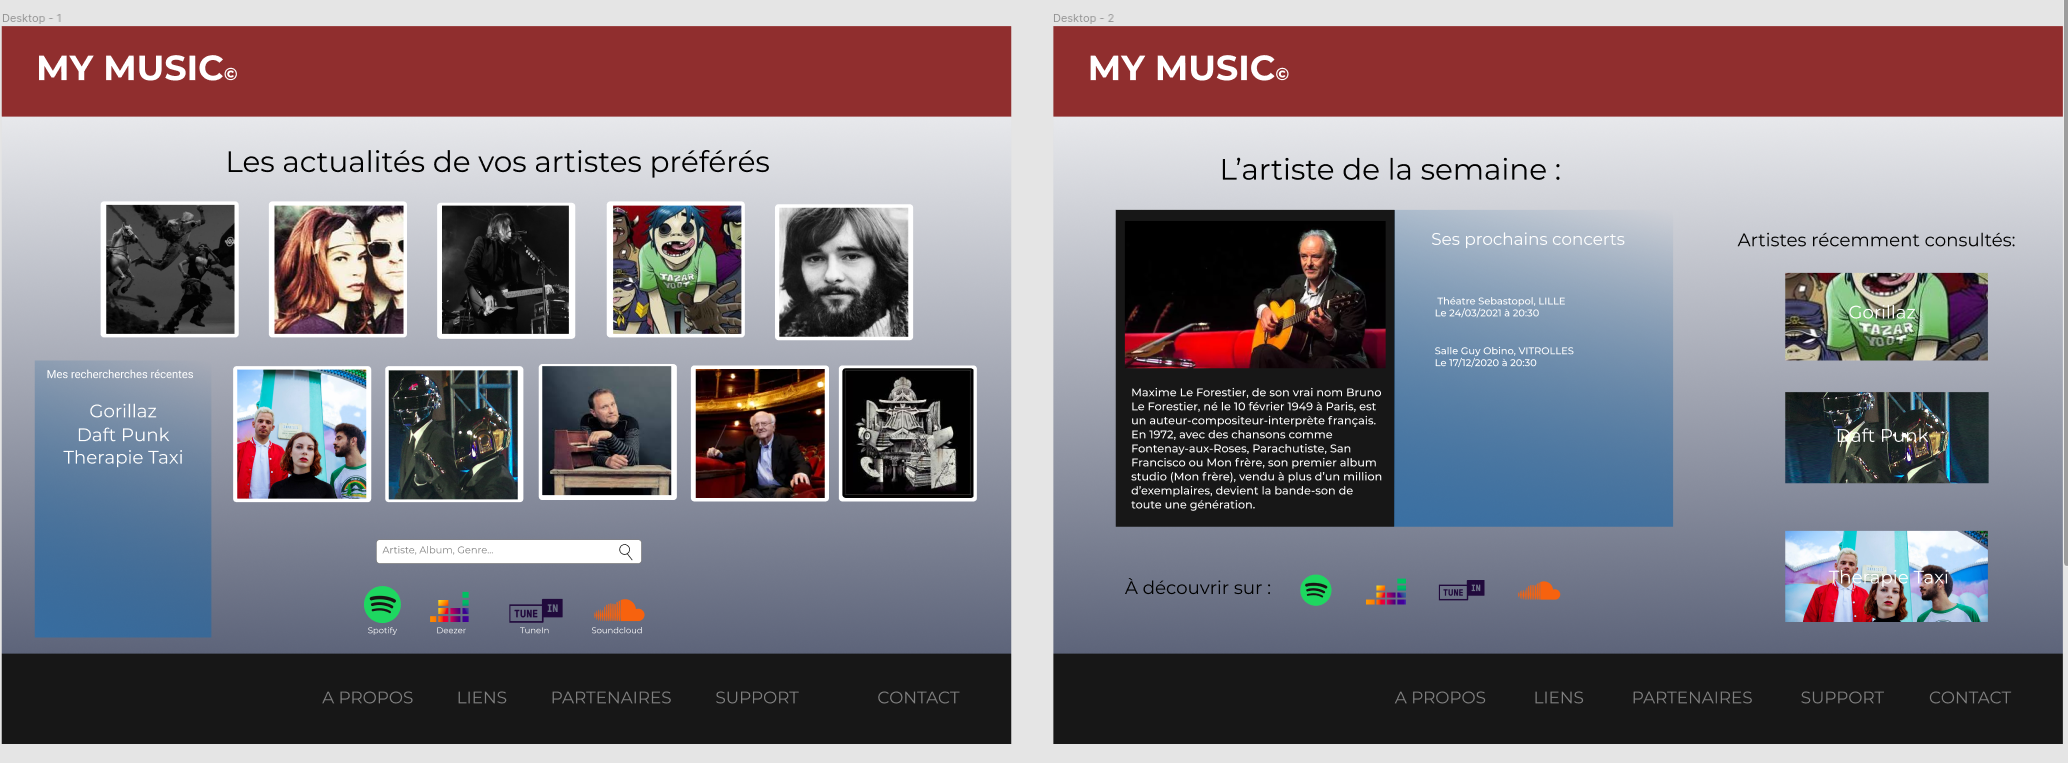
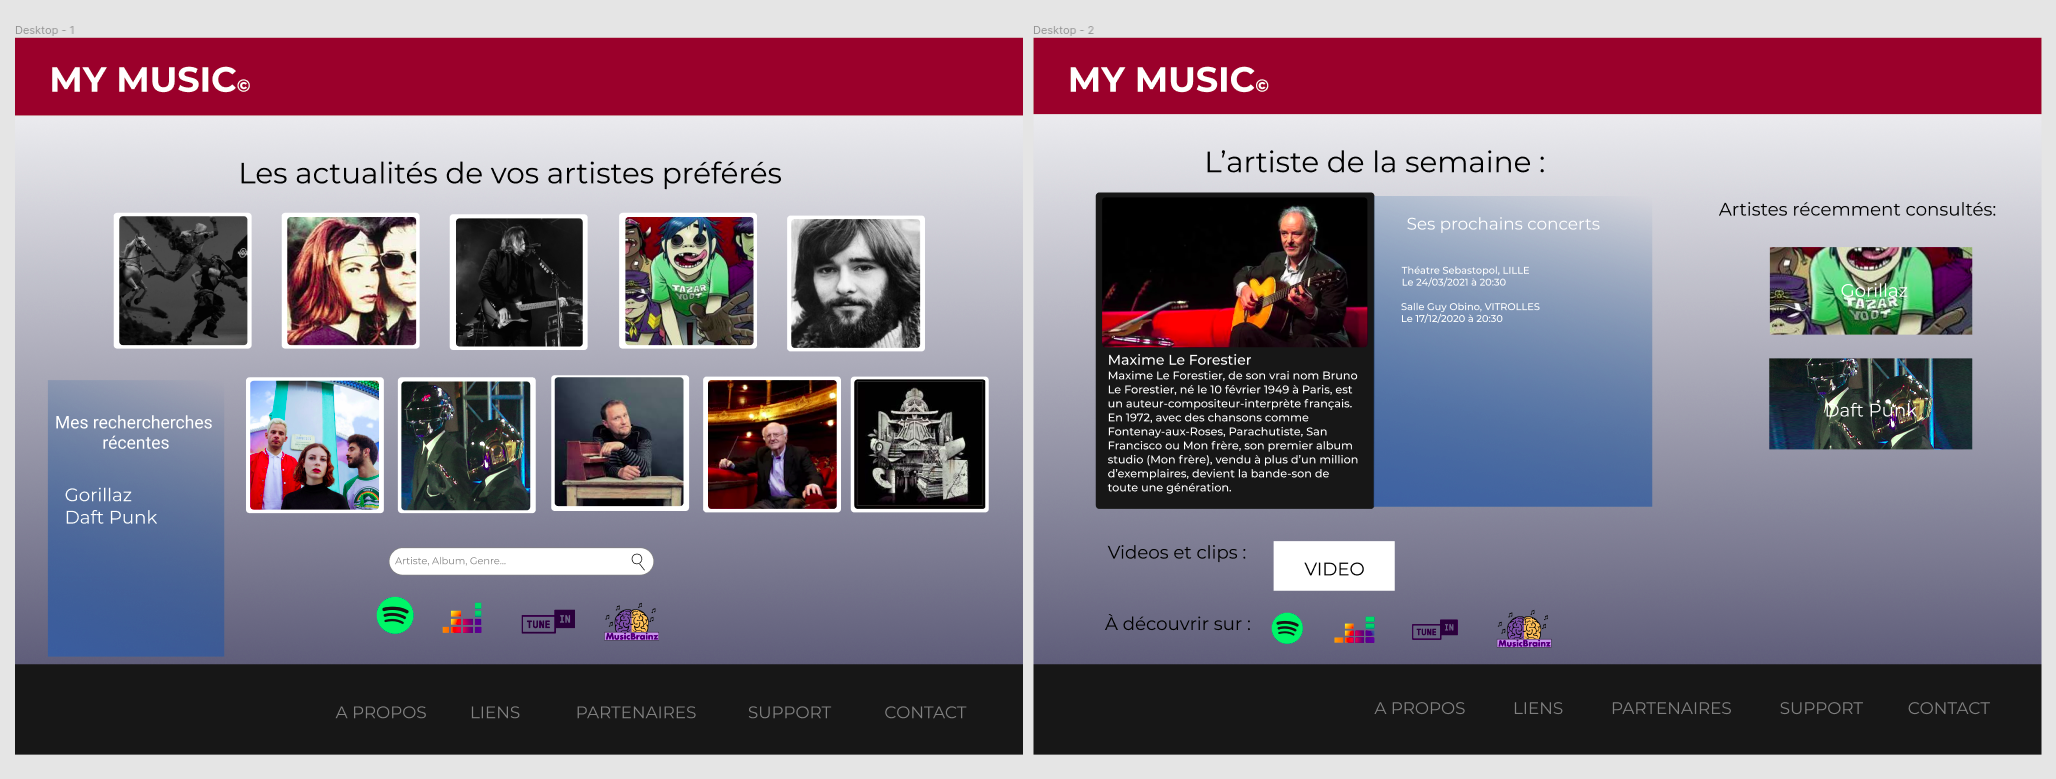
change text

diff --git a/CSS/style.css b/CSS/style.css
@@ -48,9 +48,8 @@ nav a{
   display: none;
 }
 
-
-
 /* ____________________________________________________________________________________________________________________  */
+
 
 /* ____________________________________________________MAIN__________________________________________________________  */
 
@@ -214,7 +213,6 @@ margin-top: 110px;
 
 }
 
-
 .concerts li{
 text-align: left;
 padding-top:10px;
@@ -258,9 +256,6 @@ list-style: none;
   margin-left: 270px;
   width: 990px;
 }
-
-
-
 
 /* ______________________________________________________________________________________________________________  */
 
@@ -315,7 +310,7 @@ footer li{
   h2{
     display: flex;
     margin-top: -50px;
-    margin-left: 540px;
+    margin-left: 530px;
   }
   h3{
     font-size: 50px;
@@ -514,7 +509,7 @@ footer li{
   h2{
     display: flex;
     margin-top: -50px;
-    margin-left: 540px;
+    margin-left: 530px;
   }
   h3{
     font-size: 50px;

diff --git a/MaximeLeForestier.html b/MaximeLeForestier.html
@@ -72,7 +72,7 @@
 
           </div> -->
 
-        <div class="listento">Ses vidéos et clips :
+        <div class="listento">Vidéos et clips :
             <div class="iconespageartistes">
            <iframe src="https://www.youtube.com/embed/-aVLqk01Ghk" frameborder="0" allow="accelerometer; autoplay; clipboard-write; encrypted-media; gyroscope; picture-in-picture" allowfullscreen></iframe>
            <iframe src="https://www.youtube.com/embed/_aBNV98V9BA" frameborder="0" allow="accelerometer; autoplay; clipboard-write; encrypted-media; gyroscope; picture-in-picture" allowfullscreen></iframe>

diff --git a/Gorillaz.html b/Gorillaz.html
@@ -73,7 +73,6 @@
  
         <div class="videosresp">
           <iframe width="690" height="400" src="https://www.youtube.com/embed/Y-Or6QqKGQ0" frameborder="0" allow="accelerometer; autoplay; clipboard-write; encrypted-media; gyroscope; picture-in-picture" allowfullscreen></iframe>
-          <iframe width="690" height="400" src="https://www.youtube.com/embed/yll0ZX6XzG0" frameborder="0" allow="accelerometer; autoplay; clipboard-write; encrypted-media; gyroscope; picture-in-picture" allowfullscreen></iframe>
         </div> 
 
          

diff --git a/Woodkid.html b/Woodkid.html
@@ -73,7 +73,7 @@
 
           </div> -->
 
-        <div class="listento">Ses vidéos et clips :
+        <div class="listento">Vidéos et clips :
           <div class="iconespageartistes">
            <iframe src="https://www.youtube.com/embed/vSkb0kDacjs" frameborder="0" allow="accelerometer; autoplay; clipboard-write; encrypted-media; gyroscope; picture-in-picture" allowfullscreen></iframe>
           </div>
